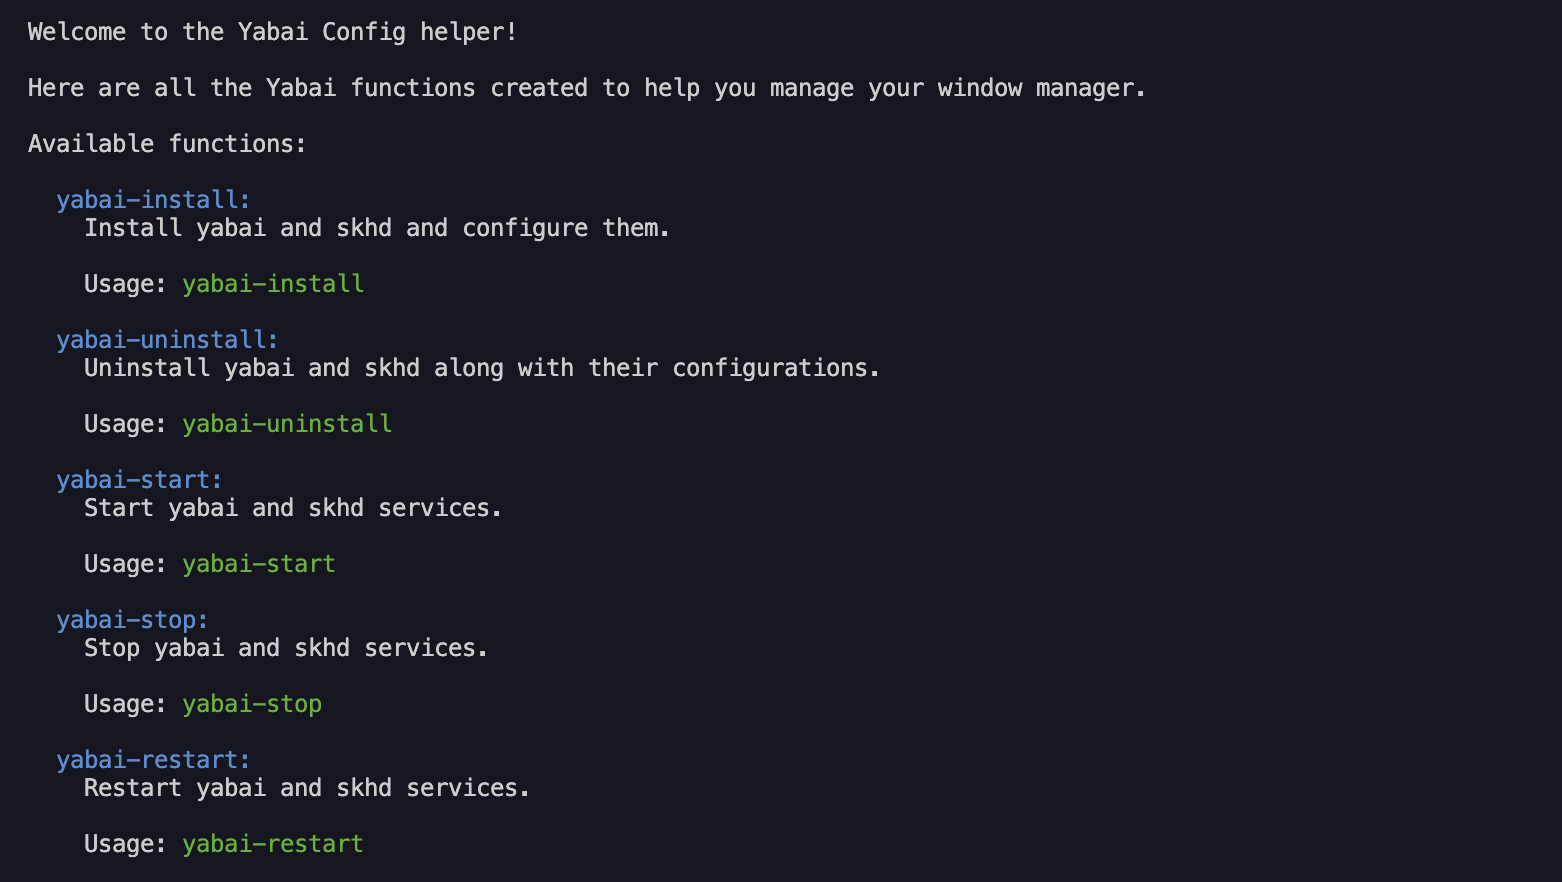
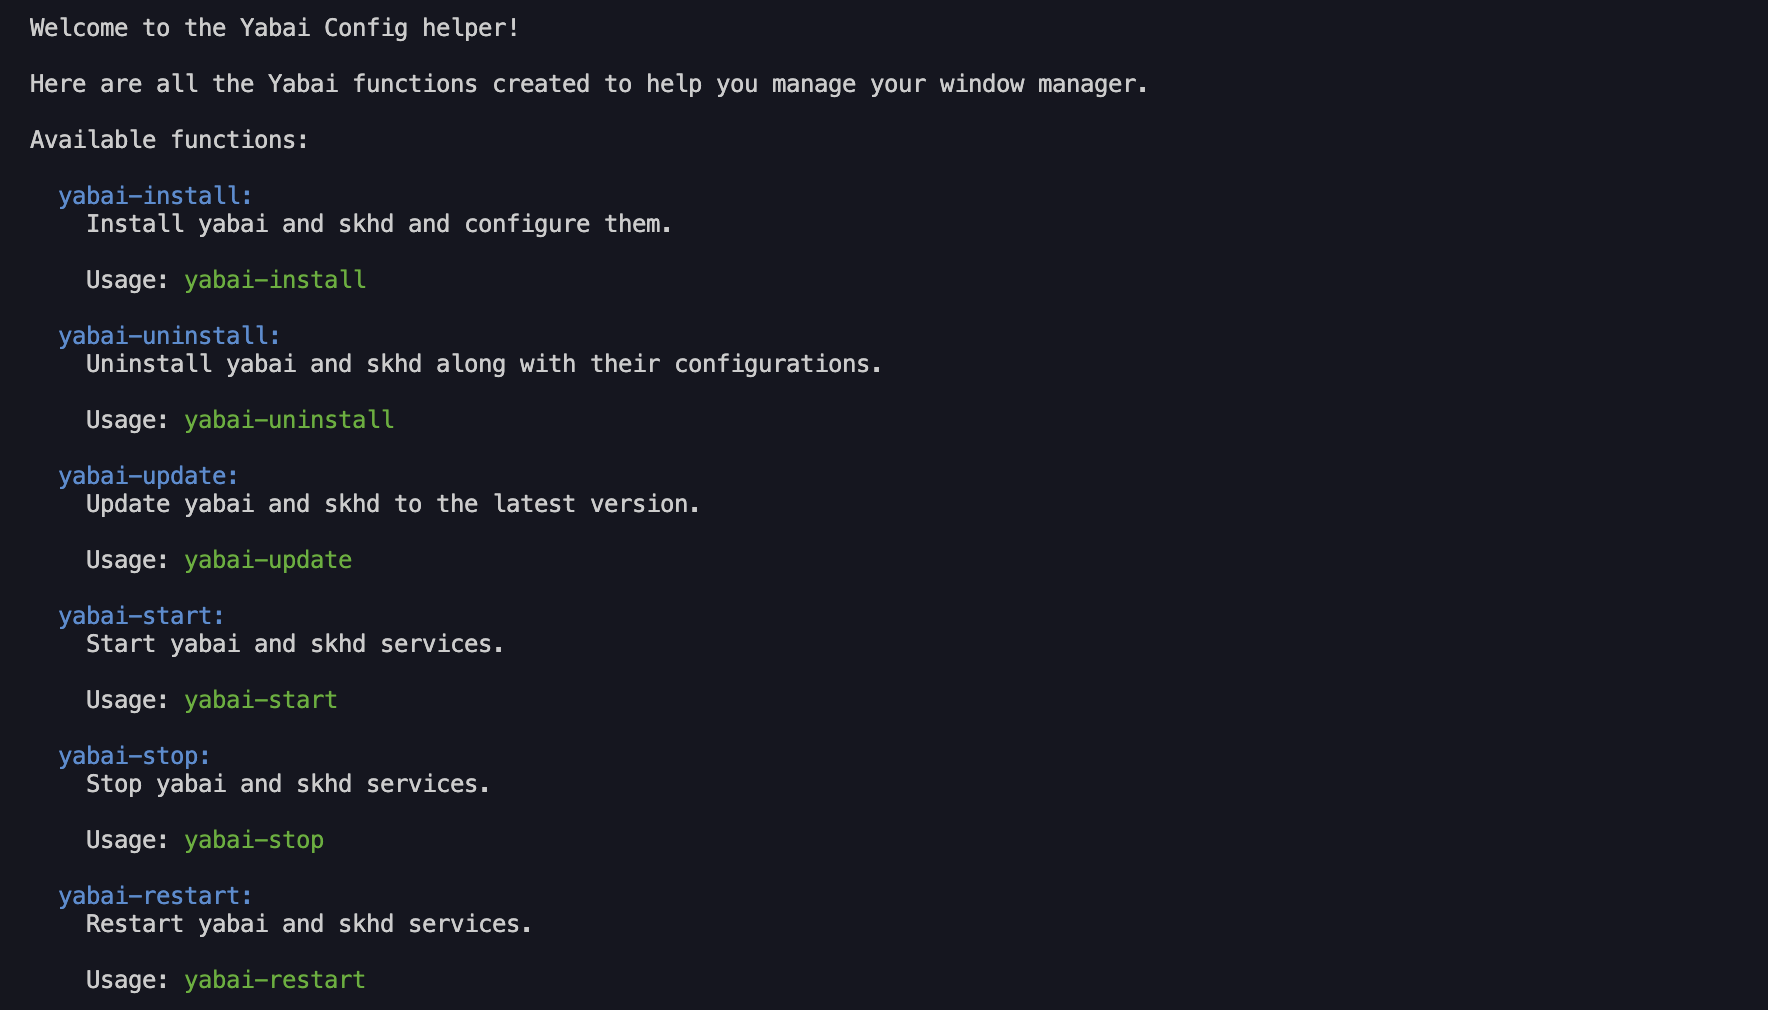
🌟 add update command

Changed region(s): [[0.0, 0.0, 0.7375, 0.4286], [0.0307, 0.4592, 0.3995, 0.9796]]

diff --git a/README.md b/README.md
@@ -81,6 +81,10 @@ Now that you have installed the project, you can use the following commands:
 - `yabai-stop`: Stop yabai service.
 - `yabai-restart`: Restart yabai.
 - `yabai-uninstall`: Uninstall yabai (refer to [this page](https://github.com/koekeishiya/yabai/wiki/Disabling-System-Integrity-Protection) to re-enable system integrity protection)
+- `yabai-update`: Update the project alogside with yabai and skhd.
+  
+> [!TIP]
+> I recommend you to use the `yabai-update` often to stay up to date with the project.
 
 ### Troubleshooting
 
